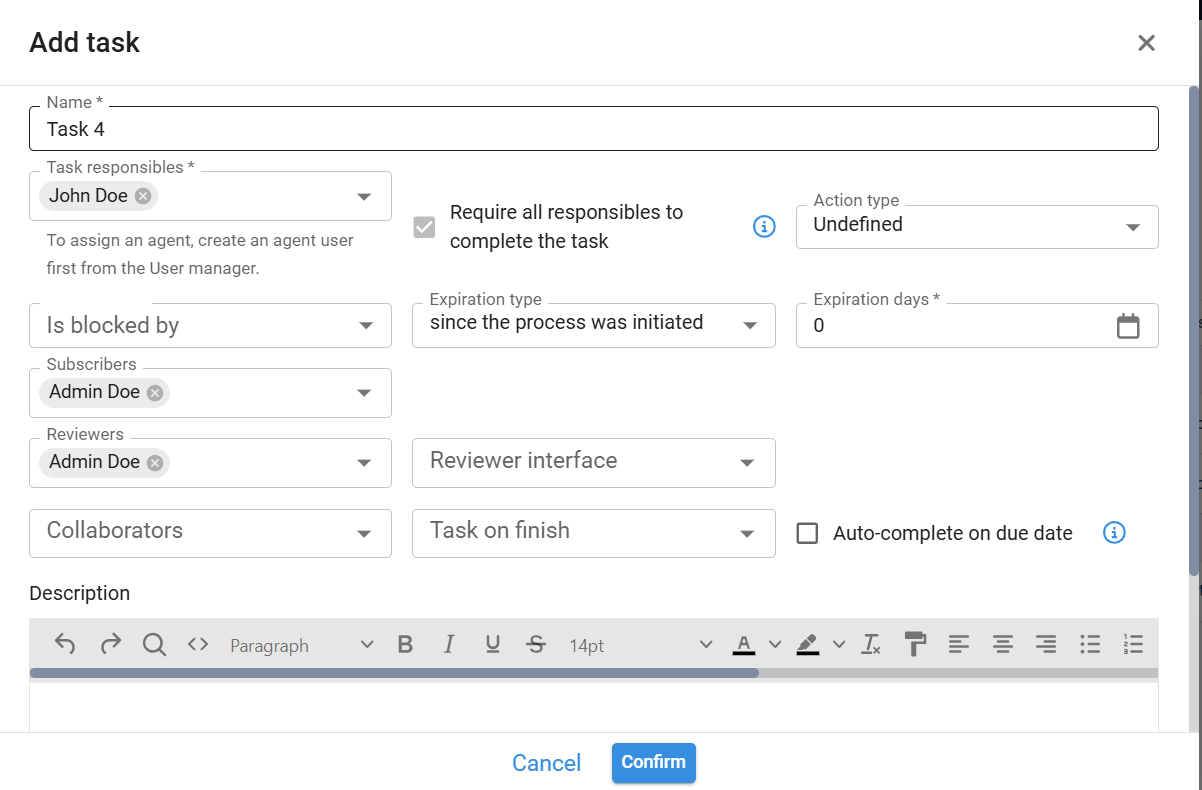
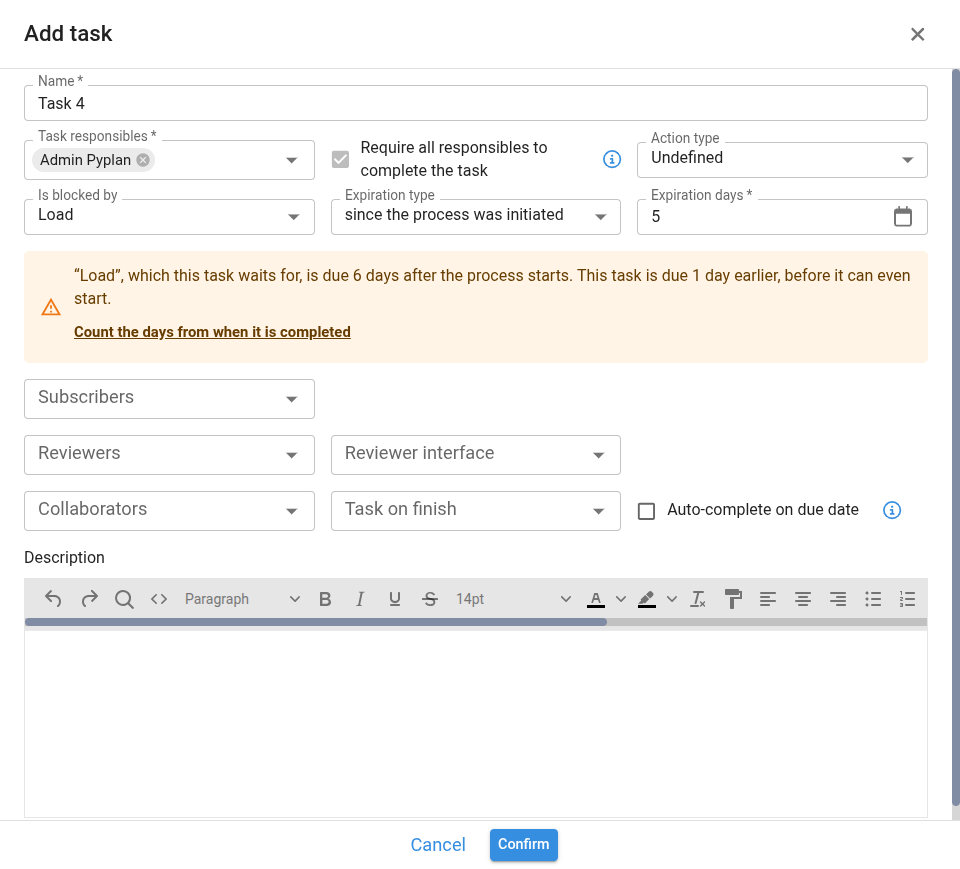
Document due date warnings, dependency loops and deleting blocking tasks in processes

diff --git a/docs/user-guide/processes.md b/docs/user-guide/processes.md
@@ -31,9 +31,11 @@ Creating tasks within a process provides a way to divide work into smaller units
 - **Task responsibles**: Selects the users who will be responsible for completing the task. The list contains both people and agents (see [Agents in a process](#agents-in-a-process) below).
 - **Require all responsibles to complete the task**: All responsibles must complete the task before it can be marked as completed. If unchecked, only one responsible is required.
 - **Action type**: Defines the type of action that needs to be performed in this task.
-- **Blocked by**: If this task depends on another previous task to be carried out, it can be specified here. This means the current task can only be undertaken once the mentioned task is complete.
+- **Blocked by**: If this task depends on another previous task to be carried out, it can be specified here. This means the current task can only be undertaken once the mentioned task is complete. Tasks cannot wait for each other in a loop, so the list leaves out the tasks that already wait for this one, directly or through others. A process that contains a loop cannot be saved, and the message names the tasks that form it.
 - **Expiration days**: Specify the number of days available to complete the task.
-- **Expiration type**: Determines from what point the expiration days start to count — from the creation of the task or from another relevant event.
+- **Expiration type**: Determines from what point the expiration days start to count:
+  - **since the process was initiated**: the days count from the start date of the process.
+  - **since blocking task was completed**: the days count from when the tasks in *Blocked by* are completed. It needs at least one blocking task, so it is disabled until one is chosen. A task with no blocking task always counts from the process start.
 - **Subscribers**: Users who will receive notifications about the status of the task.
 - **Reviewers**: Users in charge of checking and approving the task once it is completed. An agent can review just as a person can.
 - **Reviewer interface**: Interface that reviewers can open and use to evaluate task compliance.
@@ -43,6 +45,23 @@ Creating tasks within a process provides a way to divide work into smaller units
 - **Description**: Space for writing a more detailed description of the task, including additional instructions, requirements, or any other relevant information.
 
 ![Add Task](./img/processes/add-new-task.png)
+
+### Due date warnings
+
+Pyplan warns about due dates that cannot work out. The warnings never stop you from saving: they point at the task so you can fix it.
+
+- **A task due no later than a task it waits for.** If a task counts *since the process was initiated* and is due before, or at the same time as, a task in its *Blocked by*, there is no time left to do it. The task dialog shows a warning that names the blocking task and both due dates, with a **Count the days from when it is completed** button that switches the expiration type in one click. With several blocking tasks, the warning is about the one due last. Due dates are projected through chains of tasks, including hours and minutes.
+- **A task due after the process ends.** A process can have a planned end date (it is set by chat; once it has one, the form shows it). A task due after that date is warned about too.
+
+When you save the process, the warnings of every task are listed together under **Some due dates do not fit**. **Review** takes you back to the form and **Save anyway** saves the process as it is.
+
+![Due date warnings when saving](./img/processes/due-date-warnings.png)
+
+### Deleting a task other tasks wait for
+
+Deleting a task, or a group, that other tasks wait for asks for confirmation first and lists the tasks that wait for it, including those in other groups.
+
+A task that loses its last blocking task this way **keeps its due date**: from then on it counts from the process start, and it can start right away. If that date falls before the process start (for example, because the start was moved later), the task is due at the process start. A task that still has another blocking task keeps waiting for it.
 
 ## Agents in a Process
 
@@ -85,6 +104,17 @@ runs with your own permissions: authoring needs the same right the Processes
 section requires, and anybody involved in a task can read it, comment on it and
 move their own task exactly as they can here. Restarting or deleting a process
 is asked for explicitly before it happens.
+
+The same rules apply as in this screen: a loop of tasks waiting for each other is
+refused, and nothing is saved. When the assistant saves tasks it also tells you
+two kinds of things:
+
+- **What Pyplan adjusted on its own**, such as a task that lost its last blocking
+  task and now counts from the process start, or a task that no longer waits for
+  anything and can start.
+- **Due dates that cannot work out**: the [due date warnings](#due-date-warnings)
+  above, each with the change that would fix it. The assistant applies the fix only
+  if you ask.
 
 ### Running an agent on demand
 
